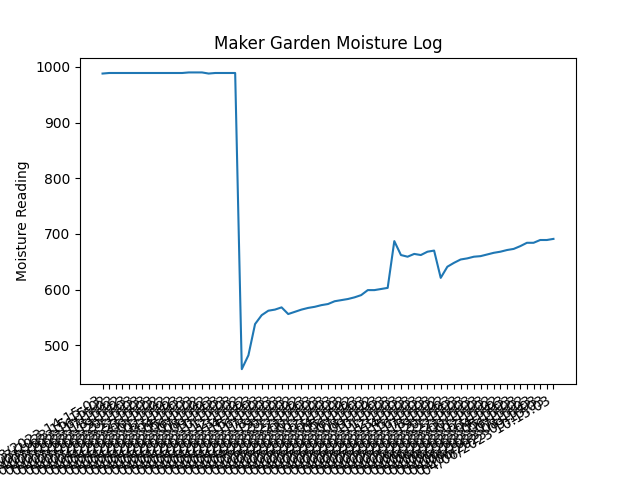
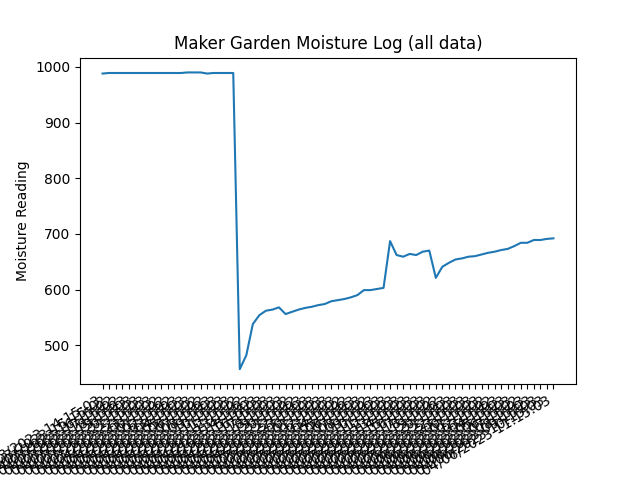
daily push

diff --git a/daily_report.py b/daily_report.py
@@ -28,7 +28,7 @@ plt.savefig("/home/pi/MakerGarden/plot1.png")
 # Create and save all-time data plot
 fig1, ax1 = plt.subplots(1)
 fig1.autofmt_xdate()
-plt.title("Maker Garden Moisture Log")
+plt.title("Maker Garden Moisture Log (all data)")
 plt.xlabel("Date & Time")
 plt.ylabel("Moisture Reading")
 plt.plot(x, y)
